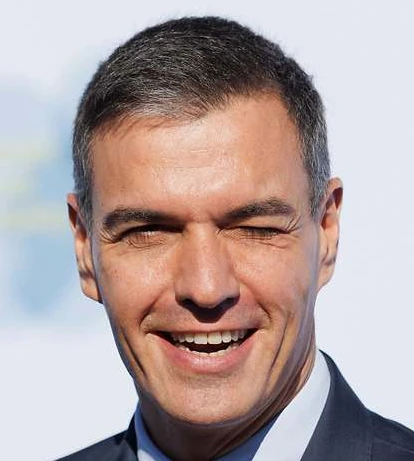
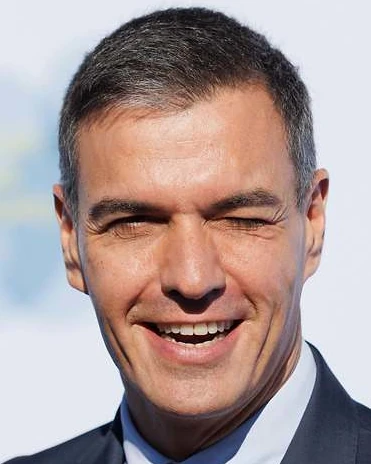
homogenized portrait aspect ratios

diff --git a/nextjs/src/app/TopMentirosos.tsx b/nextjs/src/app/TopMentirosos.tsx
@@ -14,19 +14,17 @@ export default function TopMentirosos({ topMentirososInit }: { topMentirososInit
         {mentirososList.map((x) => {
             return <li className="w-full" key={x.id}>
               <Link href={`/mentiroso/${x.slug}`} className="flex flex-row justify-start gap-2">
-                    <div>
-                        <div className="relative w-1/6 aspect-square">
-                            <img className="object-fill" alt={x.nombre_completo} src={`${process.env.NEXT_PUBLIC_S3_ORIGIN}/public/${x.retrato_s3_key}`} />
-                            {/* <div style = {{
-                                clipPath: "inset(10px 0px 84px 0px)",
-                                position: "absolute",
-                                top: "10px",
-                                right: "-75px",
-                                width: "100px",
-                                zIndex: "1"
-                            }}>
-                                <img style={{width: "500px"}} src="pictures/nose_job_tilemap.webp" alt="nose"/>
-                            </div> */}
+                    <div className="relative w-1/6 aspect-[4/5]">
+                        <img className="object-fill w-full h-full" alt={x.nombre_completo} src={`${process.env.NEXT_PUBLIC_S3_ORIGIN}/public/${x.retrato_s3_key}`} />
+                        <div style = {{
+                            clipPath: "inset(10px 0px 84px 0px)",
+                            position: "absolute",
+                            top: "10px",
+                            right: "-75px",
+                            width: "100px",
+                            zIndex: "1"
+                        }}>
+                            <img style={{width: "500px"}} src="pictures/nose_job_tilemap.webp" alt="nose"/>
                         </div>
                     </div>
                 <div className="flex flex-col justify-center">

diff --git a/nextjs/src/app/mentiroso/[slug]/page.tsx b/nextjs/src/app/mentiroso/[slug]/page.tsx
@@ -15,10 +15,10 @@ export default async function Page({ params }: { params: Promise<{ slug: string 
     }  
 
     return(
-        <div className="flex flex-col mt-5 p-4">
+        <div className="flex flex-col mt-5 p-4 gap-10">
             <div className="flex flex-row h-[20vh]">
                 <aside className="flex-1 flex flex-col items-center gap-0.5">
-                    <div className="relative flex-4 w-2/3">
+                    <div className="relative flex-4 w-2/3 aspect-[4/5]">
                         <img className="object-fill h-full w-full" alt={mentirosoData.nombre_completo} src={`${process.env.S3_ORIGIN}/public/${mentirosoData.retrato_s3_key}`} />
                     </div>
                     <div className={`flex-3 text-sm ${CourierPrime_class} text-center`}>
@@ -37,7 +37,7 @@ export default async function Page({ params }: { params: Promise<{ slug: string 
                     </div>
                 </header>
             </div>
-            <section className="mt-5 ms-2">
+            <section className="ms-2">
                 <MentirasFeed initialMentiras={mentirosoLandingPageData.mentiras} nombreMentiroso={mentirosoData.nombre_completo} mentirosoId={mentirosoData.id}/>
             </section>
         </div>

diff --git a/nextjs/src/app/buscarMentira/MentirasSearchFeed.tsx b/nextjs/src/app/buscarMentira/MentirasSearchFeed.tsx
@@ -40,7 +40,7 @@ export default function MentirasSearchFeed({ mentiraQuery }: { mentiraQuery: str
                 return(
                     <div key={x.id} className="w-full flex flex-row justify-between">
                         <div className="flex-2 flex flex-col justify-center">
-                            <div className="h-13 w-12">
+                            <div className="w-12 aspect-[4/5]">
                                 <img className="object-fill h-full w-full" alt={x.mentiroso.webp} src={`${process.env.NEXT_PUBLIC_S3_ORIGIN}/public/${x.retrato_s3_key}`} />
                             </div>
                             <p className="text-xs"><b>{ x.mentiroso }</b></p>

diff --git a/nextjs/src/app/mentira/[slug]/page.tsx b/nextjs/src/app/mentira/[slug]/page.tsx
@@ -11,7 +11,7 @@ export default async function Page({ params }: { params: Promise<{ slug: string 
     return <div className="flex flex-col mt-5 px-6 pt-3 gap-5">
         <div className="flex flex-row h-[8vh]">
             <aside className="flex-1 flex flex-col items-center">
-                <div className="relative flex-4 w-16 h-10">
+                <div className="relative flex-4 w-16 aspect-[4/5]">
                     <img className="object-fill h-full w-full" alt={mentiraData.mentiroso.nombre_completo} src={`${process.env.S3_ORIGIN}/public/${mentiraData.mentiroso.retrato_s3_key}`} />
                 </div>
             </aside>

diff --git a/nextjs/src/app/mentiroso/[slug]/MentirasFeed.tsx b/nextjs/src/app/mentiroso/[slug]/MentirasFeed.tsx
@@ -32,7 +32,7 @@ export default function MentirasFeed({ initialMentiras, nombreMentiroso, mentiro
         }) }</ul>
 
     return(
-        <div className="flex flex-col gap-1">
+        <div className="flex flex-col gap-2 justify-start items-center">
             { mentirasListComponent }
             { isFetchingNewContent && loadingHamsterDiv}
         </div>
